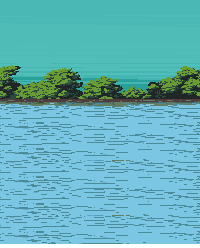
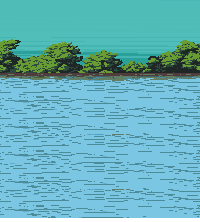
sync with laptop

diff --git a/Assets/Scripts/ScrollingBackground.cs b/Assets/Scripts/ScrollingBackground.cs
@@ -1,15 +1,27 @@
-using System.Numerics;
+using Unity.VisualScripting;
 using UnityEngine;
 
 public class ScrollingBackground : MonoBehaviour
 {
+    Renderer r;
+    float width;
+
     public float speed;
     
     [SerializeField]
     private Renderer bgRenderer;
 
-    void Update()
+    void Awake()
     {
-        bgRenderer.material.mainTextureOffset += new UnityEngine.Vector2(speed * Time.deltaTime, 0);
+        r = GetComponent<Renderer>();
+        width = r.bounds.size.x;
+    }
+
+    public void move_background(Vector3 movement)
+    {
+        Debug.Log(movement.x / width);
+        Debug.Log(speed * Time.deltaTime);
+        bgRenderer.material.mainTextureOffset += new Vector2(movement.x / width, 0);
+        //bgRenderer.material.mainTextureOffset += new UnityEngine.Vector2(speed * Time.deltaTime, 0);
     }
 }

diff --git a/Assets/Scripts/ChartController.cs b/Assets/Scripts/ChartController.cs
@@ -28,6 +28,7 @@ public class ChartController : MonoBehaviour
     public CameraController camera_controller;
     public PlayerController player_controller;
     public TileController tile_controller;
+    public ScrollingBackground scrolling_background;
 
     Dictionary<string, UnityEngine.InputSystem.Controls.KeyControl> keybinds;
     List<TileDatum> tiles;
@@ -74,8 +75,8 @@ public class ChartController : MonoBehaviour
         }
 
         Vector3 movement = movement_vectors[input_direction];
-        player_controller.move_player(movement);
-        //camera_controller.move_camera(movement);
+        scrolling_background.move_background(movement);
+        tile_controller.move_tiles(movement);
         tile_controller.destroy_tile(current_tile_ptr);
 
         current_tile_ptr += 1;

diff --git a/Assets/Scripts/TileController.cs b/Assets/Scripts/TileController.cs
@@ -32,8 +32,18 @@ public class TileController : MonoBehaviour
         }
     }
 
+    public void move_tiles(Vector3 player_movement)
+    {
+        Vector3 tile_movement = new Vector3(player_movement.x * -1, player_movement.y, 0);
+        foreach (GameObject tile_game_object in tile_game_objects)
+        {
+            tile_game_object.transform.position += tile_movement;
+        }
+    }
+
     public void destroy_tile(int index)
     {
         Destroy(tile_game_objects[index]);
+        tile_game_objects.RemoveAt(index);
     }
 }
